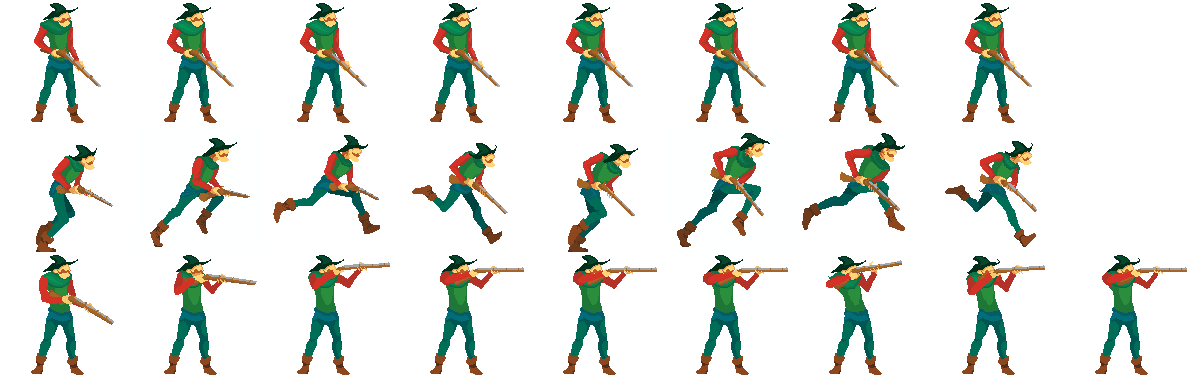
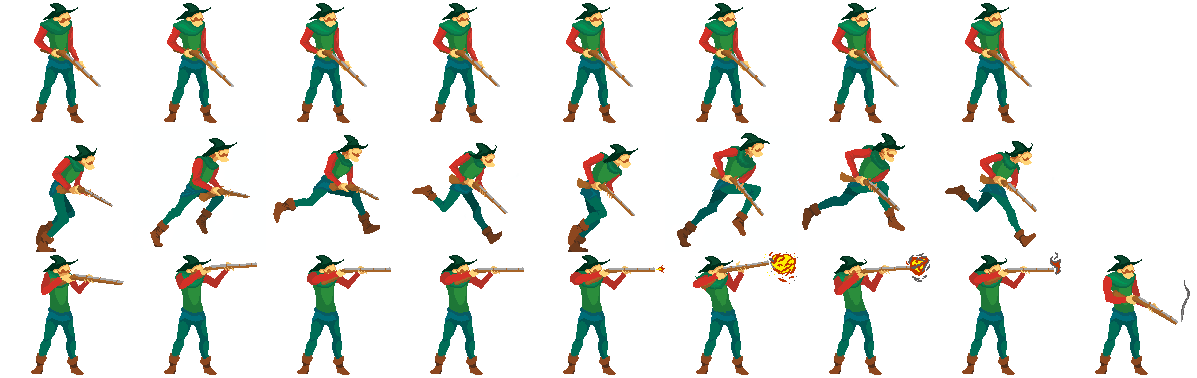
- Added fire to attack animation PNG file, and swapped frames (very subtle diff)
- Removed the studio title and game title references cause they were causing problems (because the actual PNG files do not exist)

diff --git a/ForPetesSake/SDLWrapper.cpp b/ForPetesSake/SDLWrapper.cpp
@@ -63,21 +63,21 @@ bool SDLWRP::LoadSceneMedia()
 	//Loading success flag
 	bool success = true;
 
-	gTitleLogo.SetBlendMode(SDL_BLENDMODE_BLEND);
+	//gTitleLogo.SetBlendMode(SDL_BLENDMODE_BLEND);
 
-	//Load Intro texture
-	if (!this->gTitleLogo.LoadTextureFromFile(img_title_png))
-	{
-		printf("Failed to load Intro texture image!\n");
-		success = false;
-	}
+	////Load Intro texture
+	//if (!this->gTitleLogo.LoadTextureFromFile(img_title_png))
+	//{
+	//	printf("Failed to load Intro texture image!\n");
+	//	success = false;
+	//}
 
-	//Load Intro texture
-	if (!this->gStudioLogo.LoadTextureFromFile(img_studio_png))
-	{
-		printf("Failed to load Intro texture image!\n");
-		success = false;
-	}
+	////Load Intro texture
+	//if (!this->gStudioLogo.LoadTextureFromFile(img_studio_png))
+	//{
+	//	printf("Failed to load Intro texture image!\n");
+	//	success = false;
+	//}
 
 	return success;
 }
@@ -87,8 +87,8 @@ void SDLWRP::ShutDown()
 	// This applies to the whole system
 	//   so it should be called on system close
 
-	this->gTitleLogo.Free();
-	this->gStudioLogo.Free();
+	//this->gTitleLogo.Free();
+	//this->gStudioLogo.Free();
 
 	//// Deallocate the image Surface // was used before texture
 	// SDL_FreeSurface(this->gLiveSurface);

diff --git a/ForPetesSake/SDLWrapper.h b/ForPetesSake/SDLWrapper.h
@@ -32,13 +32,6 @@ public:
 	// The image we will load and show on screen
 	SDL_Surface* gLiveSurface;
 
-	/*
-		Important Fun Fact: SDL_Surface uses Software Rendering which means it is rendered by the CPU
-
-		Now will be using SDL_Texture instead of SDL_Surface which uses hardware rendering
-		(which runs on GPU - Hardware acceleration)
-	*/
-
 	// You need that with Textures
 	SDL_Renderer* gRenderer;
 
@@ -48,19 +41,7 @@ public:
 	// Event handler
 	SDL_Event gEvent;
 
-	//SDL_Surface* gKeyPressSurfaces[KEY_PRESS_SURFACE_TOTAL];
-
 	SDL_Texture* gKeyPressTextures[KEY_PRESS_SURFACE_TOTAL];
-
-	//-// Texture gBackgroundTexture;
-	//-// Texture gCharacterTexture;
-
-	// load entities not textures
-	//  entities has textures amongst other things
-
-	// Idea: Instead of having a background entity
-	//       there should be an Environment class that has a background and a whole bunch of tiles
-	//		I wonder if all the characters should be included in the Environment class as well (environment has a characters)
 
 	Game gGame;
 	SplashScreen gStudioLogo;

diff --git a/ForPetesSake/SpriteSheet.cpp b/ForPetesSake/SpriteSheet.cpp
@@ -54,6 +54,31 @@ void SpriteSheet::SetFrameDimensions(int fw, int fh)
 	}
 }
 
+void SpriteSheet::SetCurrentFrame(int frameNumber)
+{
+	switch (this->currentAnimation)
+	{
+	case SpriteSheet_Animation::IDLE:
+		if (frameNumber >= 0 && frameNumber < numberOfIdleFrames)
+		{
+			currentFrame = frameNumber;
+		}
+		break;
+
+	case SpriteSheet_Animation::RUN:
+		if (frameNumber >= 0 && frameNumber < numberOfRunFrames)
+		{
+			currentFrame = frameNumber;
+		}
+	break; case SpriteSheet_Animation::ATTACK:
+		if (frameNumber >= 0 && frameNumber < numberOfAttackFrames)
+		{
+			currentFrame = frameNumber;
+		}
+		break;
+	}
+}
+
 
 // Chops up the sprite sheet into SDL_Rects and loads them in memory so they're there when needed at render time
 // The purpose of the function is to supply the RenderClip with SDL_Rects

diff --git a/ForPetesSake/Character.cpp b/ForPetesSake/Character.cpp
@@ -79,6 +79,11 @@ SpriteSheet_Animation Character::GetCurrentAnimation()
 	return this->spriteSheet.getCurrentAnimation();
 }
 
+void Character::SetFrame(int frameNumber)
+{
+	this->spriteSheet.SetCurrentFrame(frameNumber);
+}
+
 void Character::SetRenderer(SDL_Renderer* renderer)
 {
 	this->spriteSheet.SetRenderer(renderer);

diff --git a/ForPetesSake/Source.cpp b/ForPetesSake/Source.cpp
@@ -61,7 +61,7 @@ int main(int argc, char* args[])
 		// Update screen
 		SDL_RenderPresent(sdlGodInstance.gRenderer);
 		// currentFrame = 0; // on next line
-		// sdlGodInstance.gGame.mainCharacter.ResetFrame();
+		
 	}
 
 	sdlGodInstance.ShutDown();

diff --git a/ForPetesSake/SpriteSheet.h b/ForPetesSake/SpriteSheet.h
@@ -61,6 +61,7 @@ public:
 
 	// Setters
 	void SetFrameDimensions(int fw, int fh);
+	void SetCurrentFrame(int frameNumber);
 
 	// Populate the arrays walkFrames, runFrames, idleFrames with SDL_Rect s
 	void LoadIdleFrames(int frameCount);

diff --git a/ForPetesSake/Character.h b/ForPetesSake/Character.h
@@ -37,6 +37,8 @@ public:
 	Direction GetDirection();
 	SpriteSheet_Animation GetCurrentAnimation();
 
+	void SetFrame(int frameNumber);
+
 	void SetRenderer(SDL_Renderer*) override;
 
 	void Stand();
